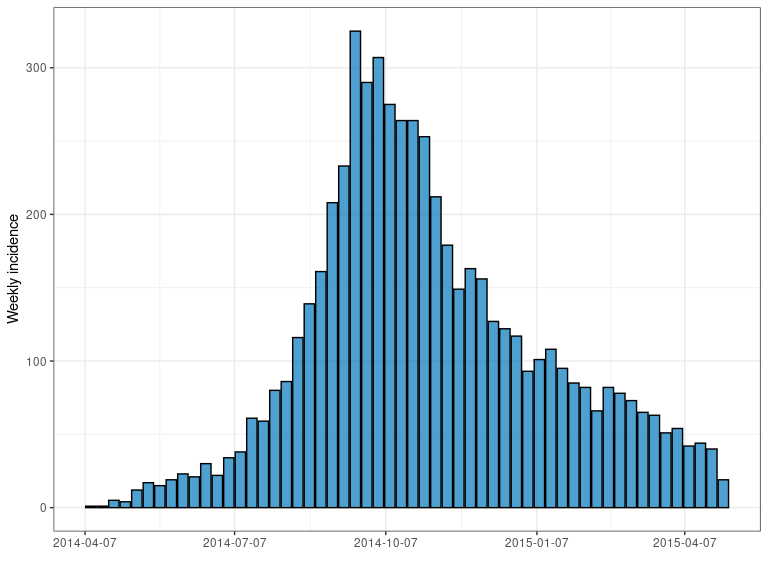
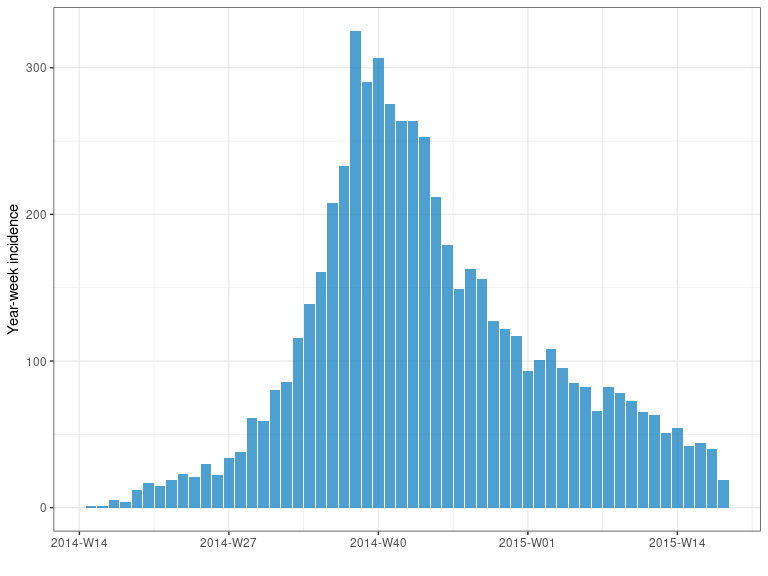
still refactoring 😀

diff --git a/README.md b/README.md
@@ -12,6 +12,7 @@ status](https://www.r-pkg.org/badges/version/incidence2)](https://CRAN.R-project
 status](https://github.com/reconhub/incidence2/workflows/R-CMD-check/badge.svg)](https://github.com/reconhub/incidence2/actions)
 [![Codecov test
 coverage](https://codecov.io/gh/reconhub/incidence2/branch/master/graph/badge.svg)](https://codecov.io/gh/reconhub/incidence2?branch=master)
+[![R-CMD-check](https://github.com/reconhub/incidence2/workflows/R-CMD-check/badge.svg)](https://github.com/reconhub/incidence2/actions)
 <!-- badges: end -->
 
 # Scope
@@ -146,33 +147,33 @@ str(dat)
 We compute the weekly incidence:
 
 ``` r
-i_7 <- incidence(dat, date_index = date_of_onset, interval = 7)
-i_7
+i_yrwk <- incidence(dat, date_index = date_of_onset, interval = "yrwk")
+i_yrwk
 #> An incidence2 object: 56 x 2
-#> [5829 cases from days 2014-04-07 to 2015-04-27]
-#> [interval: 7 days]
+#> [5829 cases from days 2014-W15 to 2015-W18]
+#> [interval: 1 yrwk]
 #> [cumulative: FALSE]
 #> 
-#>    bin_date   count
-#>    <date>     <int>
-#>  1 2014-04-07     1
-#>  2 2014-04-14     1
-#>  3 2014-04-21     5
-#>  4 2014-04-28     4
-#>  5 2014-05-05    12
-#>  6 2014-05-12    17
-#>  7 2014-05-19    15
-#>  8 2014-05-26    19
-#>  9 2014-06-02    23
-#> 10 2014-06-09    21
+#>    date_index count
+#>    <yrwk>     <int>
+#>  1 2014-W15       1
+#>  2 2014-W16       1
+#>  3 2014-W17       5
+#>  4 2014-W18       4
+#>  5 2014-W19      12
+#>  6 2014-W20      17
+#>  7 2014-W21      15
+#>  8 2014-W22      19
+#>  9 2014-W23      23
+#> 10 2014-W24      21
 #> # … with 46 more rows
-summary(i_7)
+summary(i_yrwk)
 #> An incidence2 object: 56 x 2
-#> 5829 cases from days 2014-04-07 to 2015-04-27
-#> interval: 7 days
+#> 5829 cases from 2014-W15 to 2015-W18
+#> interval: 1 yrwk
 #> cumulative: FALSE
-#> timespan: 386 days
-plot(i_7, color = "black")
+#> timespan: 392 days
+plot(i_yrwk)
 ```
 
 <img src="man/figures/README-incid7-1.png" style="display: block; margin: auto;" />
@@ -182,41 +183,41 @@ plot(i_7, color = "black")
 gender and plot in a single, stacked chart:
 
 ``` r
-i_7_sex <- incidence(dat, interval = "week", 
-                     date_index = date_of_onset, groups = gender)
-i_7_sex
-#> An incidence2 object: 112 x 4
-#> [5829 cases from days 2014-04-07 to 2015-04-27]
-#> [interval: 1 week]
+i_yrwk_sex <- incidence(dat, interval = "yrwk", date_index = date_of_onset,
+                        groups = gender)
+i_yrwk_sex
+#> An incidence2 object: 109 x 3
+#> [5829 cases from days 2014-W15 to 2015-W18]
+#> [interval: 1 yrwk]
 #> [cumulative: FALSE]
 #> 
-#>    bin_date   week_group gender count
-#>    <date>     <aweek>    <fct>  <int>
-#>  1 2014-04-07 2014-W15   f          1
-#>  2 2014-04-07 2014-W15   m          0
-#>  3 2014-04-14 2014-W16   f          0
-#>  4 2014-04-14 2014-W16   m          1
-#>  5 2014-04-21 2014-W17   f          4
-#>  6 2014-04-21 2014-W17   m          1
-#>  7 2014-04-28 2014-W18   f          4
-#>  8 2014-04-28 2014-W18   m          0
-#>  9 2014-05-05 2014-W19   f          9
-#> 10 2014-05-05 2014-W19   m          3
-#> # … with 102 more rows
-summary(i_7_sex)
-#> An incidence2 object: 112 x 4
-#> 5829 cases from days 2014-04-07 to 2015-04-27
-#> interval: 1 week
+#>    date_index gender count
+#>    <yrwk>     <fct>  <int>
+#>  1 2014-W15   f          1
+#>  2 2014-W16   m          1
+#>  3 2014-W17   f          4
+#>  4 2014-W17   m          1
+#>  5 2014-W18   f          4
+#>  6 2014-W19   f          9
+#>  7 2014-W19   m          3
+#>  8 2014-W20   f          7
+#>  9 2014-W20   m         10
+#> 10 2014-W21   f          8
+#> # … with 99 more rows
+summary(i_yrwk_sex)
+#> An incidence2 object: 109 x 3
+#> 5829 cases from 2014-W15 to 2015-W18
+#> interval: 1 yrwk
 #> cumulative: FALSE
-#> timespan: 386 days
+#> timespan: 392 days
 #> 
 #> 1 grouped variable
 #> 
 #>   gender count
-#>   <fct>  <int>
+#> * <fct>  <int>
 #> 1 f       2934
 #> 2 m       2895
-plot(i_7_sex, fill = "gender", color = "black")
+plot(i_yrwk_sex, fill = "gender")
 ```
 
 <img src="man/figures/README-genderstack-1.png" style="display: block; margin: auto;" />
@@ -224,7 +225,7 @@ plot(i_7_sex, fill = "gender", color = "black")
 we can facet our plot (grouping detected automatically):
 
 ``` r
-facet_plot(i_7_sex, n_breaks = 4)
+facet_plot(i_yrwk_sex, n_breaks = 6)
 ```
 
 <img src="man/figures/README-genderfacet-1.png" style="display: block; margin: auto;" />
@@ -234,55 +235,51 @@ and fills:
 
 ``` r
 # incidence is compatible with the magrittr pipe operator
-i_7_sh <- 
-  dat %>% 
-  incidence(date_index = date_of_onset, interval = "week", 
-            groups = c(gender, hospital))
-i_7_sh
-#> An incidence2 object: 672 x 5
-#> [5829 cases from days 2014-04-07 to 2015-04-27]
-#> [interval: 1 week]
+i_yrwk_sh <- incidence(dat, date_index = date_of_onset, interval = "yrwk",
+                       groups = c(gender, hospital))
+i_yrwk_sh
+#> An incidence2 object: 601 x 4
+#> [5829 cases from days 2014-W15 to 2015-W18]
+#> [interval: 1 yrwk]
 #> [cumulative: FALSE]
 #> 
-#>    bin_date   week_group gender hospital                                   count
-#>    <date>     <aweek>    <fct>  <fct>                                      <int>
-#>  1 2014-04-07 2014-W15   f      Military Hospital                              1
-#>  2 2014-04-07 2014-W15   m      Military Hospital                              0
-#>  3 2014-04-07 2014-W15   f      Connaught Hospital                             0
-#>  4 2014-04-07 2014-W15   m      Connaught Hospital                             0
-#>  5 2014-04-07 2014-W15   f      other                                          0
-#>  6 2014-04-07 2014-W15   m      other                                          0
-#>  7 2014-04-07 2014-W15   f      <NA>                                           0
-#>  8 2014-04-07 2014-W15   m      <NA>                                           0
-#>  9 2014-04-07 2014-W15   f      Princess Christian Maternity Hospital (PC…     0
-#> 10 2014-04-07 2014-W15   m      Princess Christian Maternity Hospital (PC…     0
-#> # … with 662 more rows
-i_7_sh %>% summary()
-#> An incidence2 object: 672 x 5
-#> 5829 cases from days 2014-04-07 to 2015-04-27
-#> interval: 1 week
+#>    date_index gender hospital                                     count
+#>    <yrwk>     <fct>  <fct>                                        <int>
+#>  1 2014-W15   f      Military Hospital                                1
+#>  2 2014-W16   m      Connaught Hospital                               1
+#>  3 2014-W17   f      other                                            2
+#>  4 2014-W17   f      <NA>                                             2
+#>  5 2014-W17   m      other                                            1
+#>  6 2014-W18   f      Connaught Hospital                               1
+#>  7 2014-W18   f      Princess Christian Maternity Hospital (PCMH)     1
+#>  8 2014-W18   f      Rokupa Hospital                                  1
+#>  9 2014-W18   f      <NA>                                             1
+#> 10 2014-W19   f      Connaught Hospital                               2
+#> # … with 591 more rows
+summary(i_yrwk_sh)
+#> An incidence2 object: 601 x 4
+#> 5829 cases from 2014-W15 to 2015-W18
+#> interval: 1 yrwk
 #> cumulative: FALSE
-#> timespan: 386 days
+#> timespan: 392 days
 #> 
 #> 2 grouped variables
 #> 
 #>   gender count
-#>   <fct>  <int>
+#> * <fct>  <int>
 #> 1 f       2934
 #> 2 m       2895
 #> 
 #> 
 #>   hospital                                     count
-#>   <fct>                                        <int>
+#> * <fct>                                        <int>
 #> 1 Connaught Hospital                            1737
 #> 2 Military Hospital                              889
 #> 3 other                                          876
 #> 4 Princess Christian Maternity Hospital (PCMH)   420
 #> 5 Rokupa Hospital                                451
 #> 6 <NA>                                          1456
-i_7_sh %>% facet_plot(facets = gender, fill = hospital)
-#> plot() can only stack/dodge by one variable.
-#> For multi-facet plotting try facet_plot()
+facet_plot(i_yrwk_sh, facets = gender, fill = hospital, n_breaks = 6)
 ```
 
 <img src="man/figures/README-genderhospital-1.png" style="display: block; margin: auto;" />
